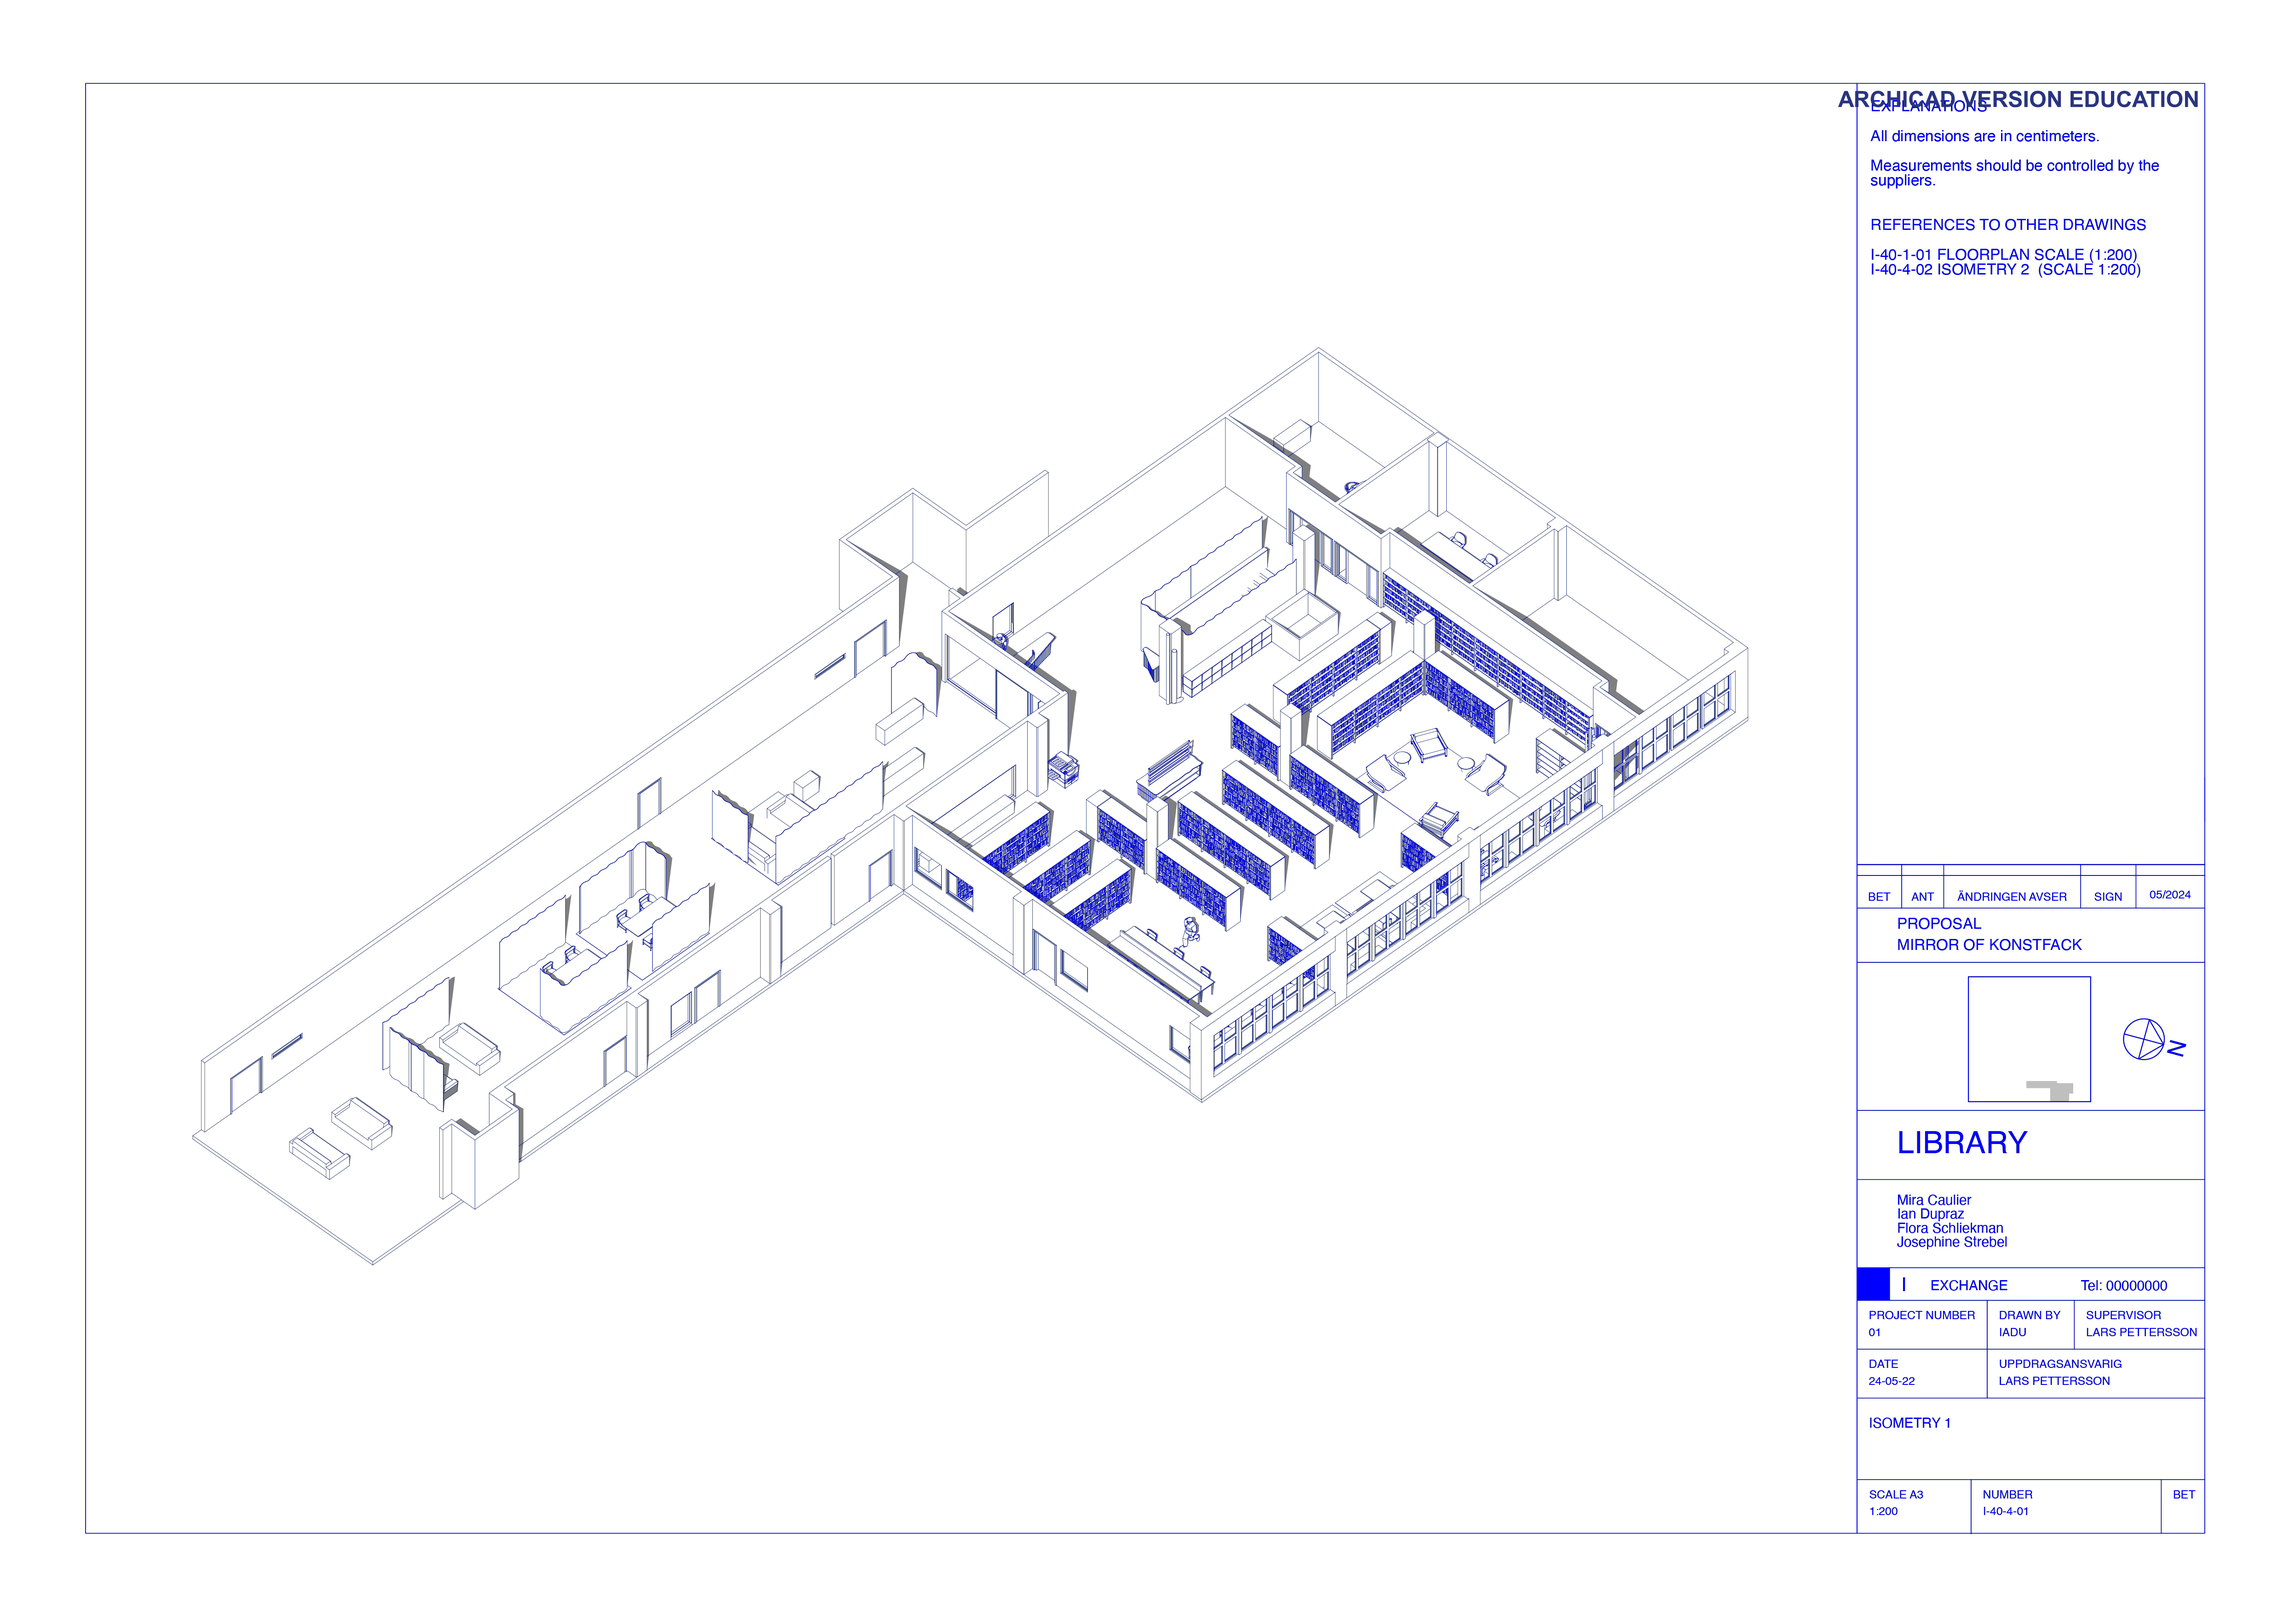
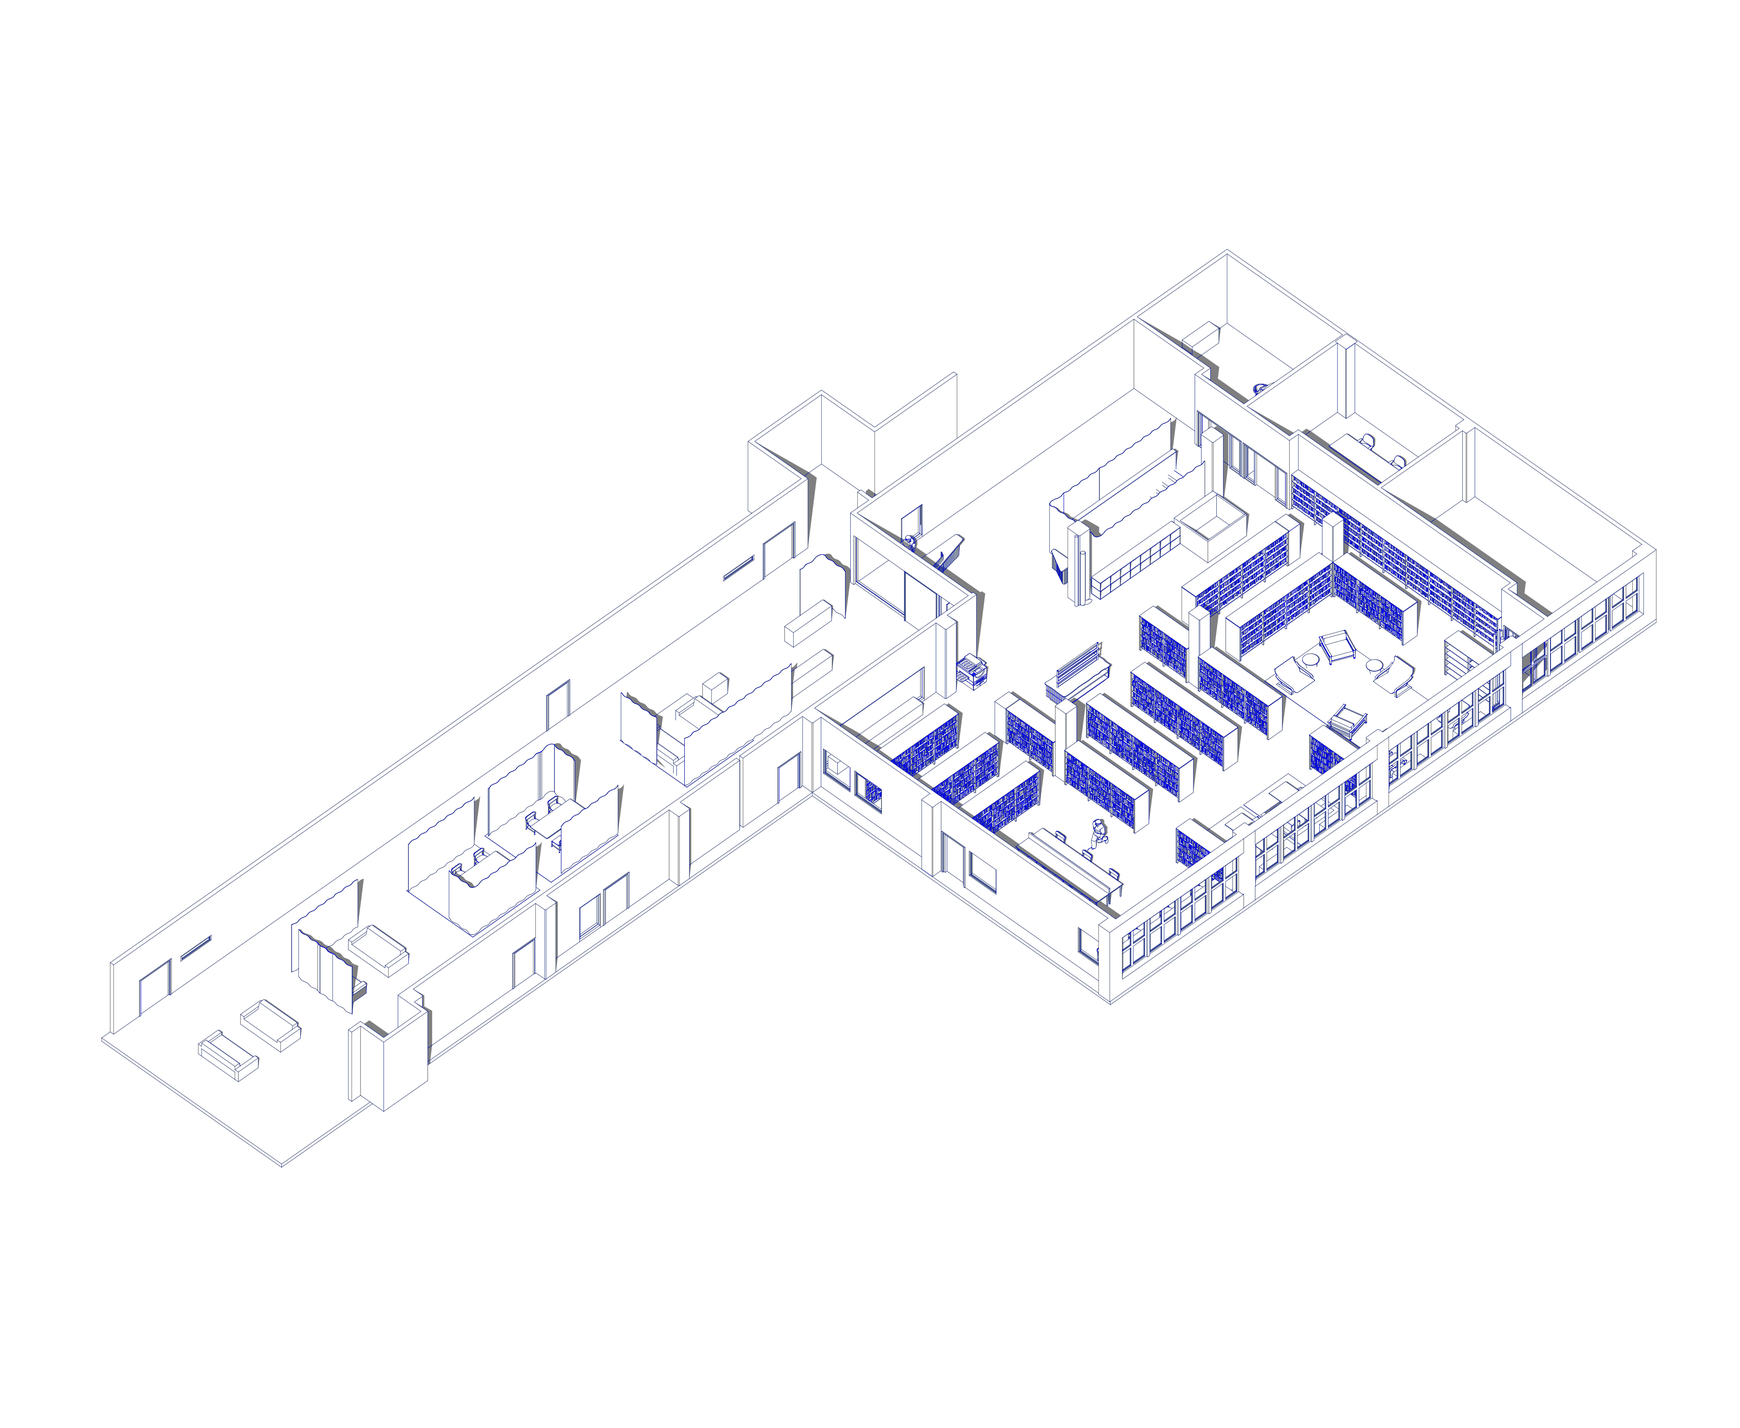
Update Projekt7 page

diff --git a/projekt7.html b/projekt7.html
@@ -1,0 +1,114 @@
+<!DOCTYPE html>
+<html lang="de">
+<head>
+  <meta charset="UTF-8" />
+  <meta name="viewport" content="width=device-width, initial-scale=1" />
+  <title>Bahnhofsgang – Projekt</title>
+  <link rel="stylesheet" href="style.css" />
+</head>
+<body class="project-page">
+
+  <header class="top-bar">
+    <div class="site-title">
+      <a href="index.html"><h1>JOSÉPHINE STREBEL</h1></a>
+    </div>
+
+    <input type="checkbox" id="nav-toggle" class="nav-toggle-checkbox" />
+    <label for="nav-toggle" class="nav-toggle-label" aria-label="Navigation umschalten">&#9776;</label>
+
+    <nav class="navigation">
+      <a href="projects.html">Projects</a>
+      <a href="about.html">About</a>
+    </nav>
+  </header>
+<div class="project-container">
+  <main class="project-main">
+    <div class="project-text">
+      <h2>Bahnhofsgang</h2>
+      <p>
+        
+Die Menschen und das physische Gebäude ergeben zusammen den Bahnhof. Was passiert, wenn ich die beiden Faktoren voneinander ablöse und die Reisenden deplatziere? Wenn sie beispielsweise plötzlich nicht mehr von der Eingangshalle des Bahnhofs auf die Perrons gehen, son- dern sie durch den Gang meiner eigenen Wohnung in die Schlafzimmer schreiten.
+      </p>
+      <div class="project-info-box">
+        <p class="year"><strong>Entstehungsjahr:</strong> 2025</p>
+      </div>
+    </div>
+
+    <img src="Projekte/Projekt7_TITEL.jpg" alt="Collage Bahnhof" />  
+  </main>
+
+  <section class="projectgallery">
+    <img src="Projekt7/Mittel (DK.BA_SD_101.H22_SPACE_1_Bild2_Strebel).jpeg" alt="SCDH" />
+    <img src="Projekt7/Mittel (DK.BA_SD_101.H22_SPACE_1_Bild3_Strebel).jpeg" alt="SCDH" />
+    <img src="Projekt7/Mittel (Gleis_BahnhofSkizze).jpeg" alt="SCDH" />
+    <img src="Projekt7/Mittel (Szenen_Bahnhofsgang-1 Kopie).jpeg" alt="SCDH" />
+  </section>
+</div>
+  <footer id="footer">
+    <p>&copy; 2025 Joséphine Strebel</p>
+  </footer>
+  <!-- Bild‑Modal -->
+  <div id="imgModal" class="img-modal" aria-hidden="true">
+    <span id="imgModalClose" class="img-modal__close">&times;</span>
+    <button id="imgPrev" class="img-modal__nav img-modal__nav--prev">&#10094;</button>
+    <img id="imgModalImg" class="img-modal__content" alt="Erweitertes Bild" />
+    <button id="imgNext" class="img-modal__nav img-modal__nav--next">&#10095;</button>
+  </div>
+
+
+<script>
+  const modal       = document.getElementById('imgModal');
+  const modalImg    = document.getElementById('imgModalImg');
+  const modalClose  = document.getElementById('imgModalClose');
+  const prevBtn     = document.getElementById('imgPrev');
+  const nextBtn     = document.getElementById('imgNext');
+  const galleryImgs = Array.from(document.querySelectorAll('.projectgallery img'));
+
+  let currentIndex = 0;
+
+  function openModal(idx) {
+    currentIndex = idx;
+    modalImg.src = galleryImgs[idx].src;
+    modalImg.alt = galleryImgs[idx].alt || 'Projekt‑Bild';
+    modal.style.display = 'flex';
+    modal.setAttribute('aria-hidden', 'false');
+  }
+
+  function closeModal() {
+    modal.style.display = 'none';
+    modal.setAttribute('aria-hidden', 'true');
+  }
+
+  function showPrev() {
+    openModal((currentIndex - 1 + galleryImgs.length) % galleryImgs.length);
+  }
+  function showNext() {
+    openModal((currentIndex + 1) % galleryImgs.length);
+  }
+
+  // Doppelklick öffnet Modal am richtigen Index
+  galleryImgs.forEach((img, idx) => {
+    img.addEventListener('dblclick', () => openModal(idx));
+  });
+
+  // Close‑Button und Klick außerhalb
+  modalClose.addEventListener('click', closeModal);
+  modal.addEventListener('click', e => {
+    if (e.target === modal) closeModal();
+  });
+
+  // Vor/Zurück-Buttons
+  prevBtn.addEventListener('click', e => { e.stopPropagation(); showPrev(); });
+  nextBtn.addEventListener('click', e => { e.stopPropagation(); showNext(); });
+
+  // Keyboard-Steuerung
+  document.addEventListener('keydown', e => {
+    if (modal.style.display !== 'flex') return;
+    if (e.key === 'ArrowLeft')  showPrev();
+    if (e.key === 'ArrowRight') showNext();
+    if (e.key === 'Escape')      closeModal();
+  });
+</script>
+
+</body>
+</html>

diff --git a/about.html b/about.html
@@ -32,7 +32,10 @@
     <div class="project-text">
       <h2>About</h2>
       <p>
-        Text folgt
+        Ich gestalte Raumerlebnisse – mal digital, mal physisch, oft irgendwo dazwischen. Was mich antreibt: visuelles Erzählen, das Emotionen weckt und soziale Räume schafft. Der Mensch steht für mich dabei immer im Mittelpunkt.
+Somit ist für mich auch die Kommunikation und Vermittlung von Räumen, die noch nicht existieren, ein wichtiger Teil meiner Arbeit.
+
+Geprägt haben mich Studien in Soziologie und Kunstgeschichte – aber besonders mein Austauschsemester in Stockholm im Bereich Innenarchitektur & Möbeldesign. 2025 habe ich meinen Bachelor in Spatial Design an der Hochschule Luzern – Design, Film und Kunst abgeschlossen.
       </p>
       <div class="project-info-box">
         <p class="link1">
